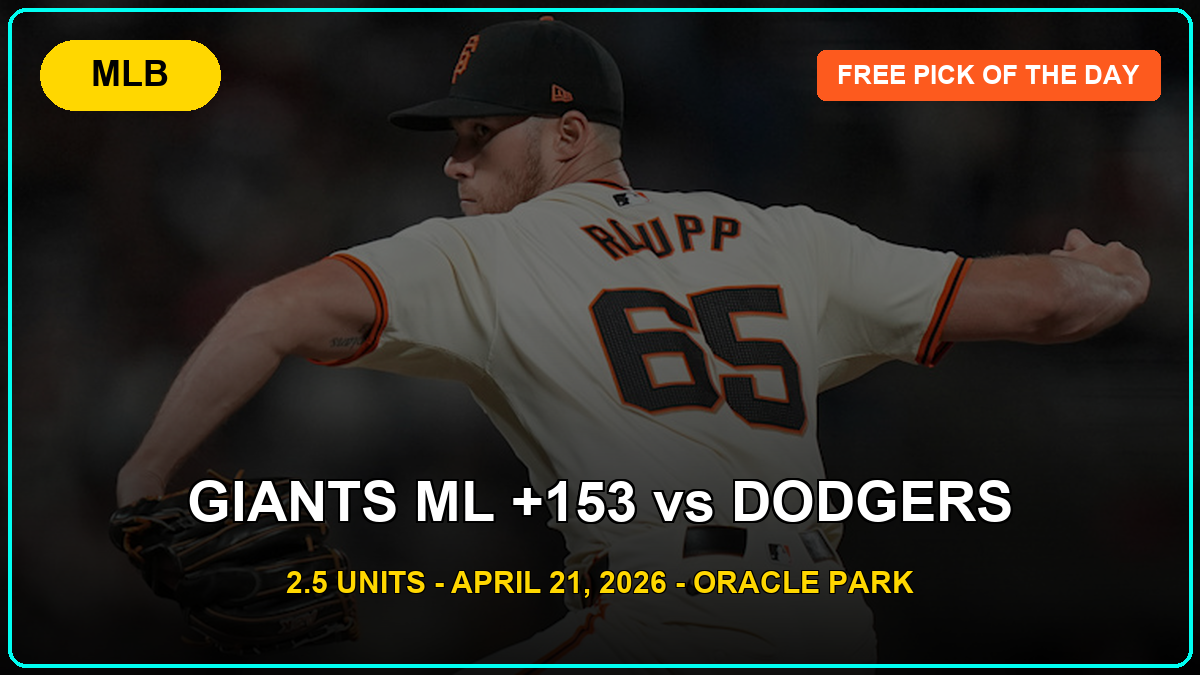
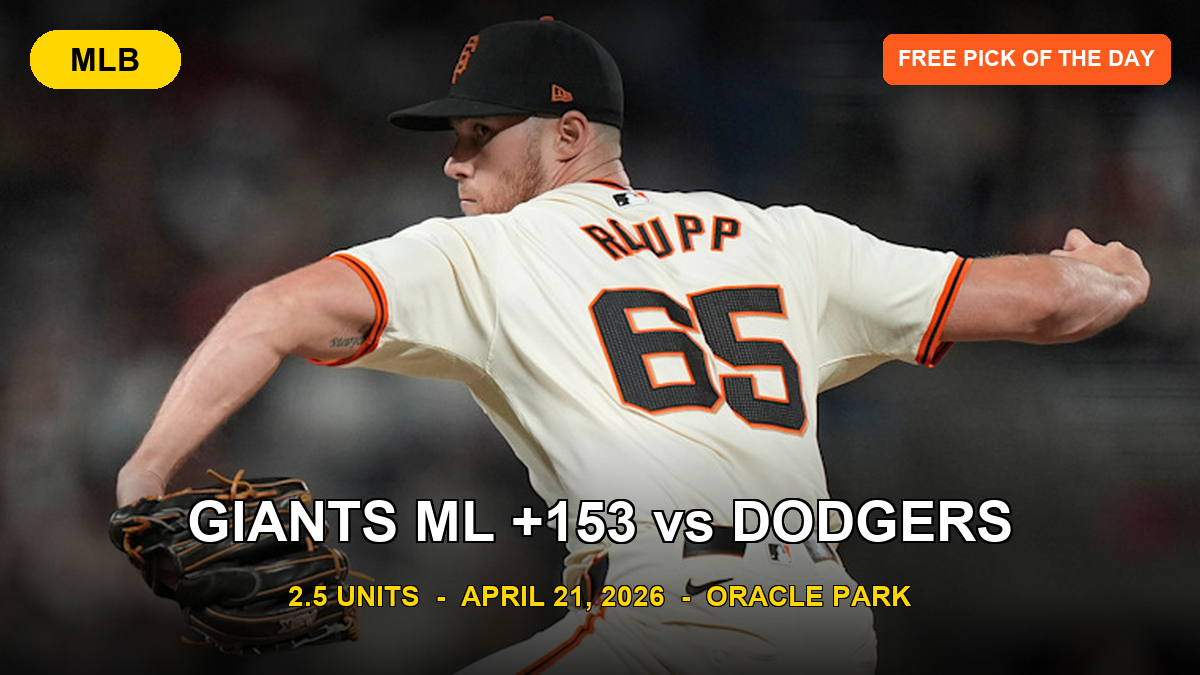
Self-host Roupp action photo + rebuild homepage thumbnail
- Hero now points at /images/landen-roupp-giants-pitcher-april-21-2026.jpg
  so it loads even if mlbstatic.com is blocked client-side.
- Homepage thumbnail PNG rebuilt with the actual Roupp action photo
  filling the card frame (replacing the dark generic graphic).

diff --git a/giants-moneyline-plus-153-roupp-dodgers-oracle-park-mlb.html b/giants-moneyline-plus-153-roupp-dodgers-oracle-park-mlb.html
@@ -10,13 +10,13 @@
 <meta property="og:description" content="San Francisco Giants moneyline +153 home dog play vs Los Angeles Dodgers. Landen Roupp (2.38 ERA) vs Yoshinobu Yamamoto (2.10 ERA). Free Pick of the Day, 2.5 units. Oracle Park series opener."/>
 <meta property="og:url" content="https://www.betlegendpicks.com/giants-moneyline-plus-153-roupp-dodgers-oracle-park-mlb.html"/>
 <meta property="og:type" content="article"/>
-<meta property="og:image" content="https://img.mlbstatic.com/mlb-photos/image/upload/w_1280,q_auto:best/v1/people/694738/action/hero/current"/>
+<meta property="og:image" content="https://www.betlegendpicks.com/images/landen-roupp-giants-pitcher-april-21-2026.jpg"/>
 <meta property="og:site_name" content="BetLegend Picks"/>
 <meta name="twitter:card" content="summary_large_image"/>
 <meta name="twitter:site" content="@BetLegend2025"/>
 <meta name="twitter:title" content="Giants ML +153 Free Pick of the Day vs Dodgers April 21 2026"/>
 <meta name="twitter:description" content="Giants +153 home dog vs Dodgers at Oracle Park. Roupp vs Yamamoto. 2.5 unit Free Pick of the Day. Full breakdown inside."/>
-<meta name="twitter:image" content="https://img.mlbstatic.com/mlb-photos/image/upload/w_1280,q_auto:best/v1/people/694738/action/hero/current"/>
+<meta name="twitter:image" content="https://www.betlegendpicks.com/images/landen-roupp-giants-pitcher-april-21-2026.jpg"/>
 <meta content="BetLegend Picks" name="author"/>
 <link rel="canonical" href="https://www.betlegendpicks.com/giants-moneyline-plus-153-roupp-dodgers-oracle-park-mlb.html"/>
 <link href="https://www.betlegendpicks.com/newlogo.png" rel="icon" type="image/png"/>
@@ -26,7 +26,7 @@
  "@type": "BlogPosting",
  "headline": "Giants Moneyline +153 Is the Free Pick of the Day: Home Dog Value vs the Dodgers Behind Roupp at Oracle Park",
  "description": "San Francisco Giants moneyline +153 free pick of the day vs Los Angeles Dodgers Tuesday April 21 2026. Landen Roupp (3-1, 2.38 ERA) draws Yoshinobu Yamamoto (2-1, 2.10 ERA) in the series opener at Oracle Park. Full home dog breakdown for a 2.5 unit play.",
- "image": "https://img.mlbstatic.com/mlb-photos/image/upload/w_1280,q_auto:best/v1/people/694738/action/hero/current",
+ "image": "https://www.betlegendpicks.com/images/landen-roupp-giants-pitcher-april-21-2026.jpg",
  "author": {"@type": "Person", "name": "BetLegend"},
  "publisher": {"@type": "Organization", "name": "BetLegend Picks", "logo": {"@type": "ImageObject", "url": "https://www.betlegendpicks.com/newlogo.png"}},
  "datePublished": "2026-04-20T23:55:00-04:00",
@@ -138,7 +138,7 @@ footer a:hover{text-shadow:0 0 10px var(--neon-cyan)}
 <p class="post-time">Posted: 11:55 PM ET, April 20, 2026 | First Pitch: Tuesday, April 21 - 9:45 PM ET</p>
 
 <figure style="text-align:center;margin:20px 0;">
-<img alt="Landen Roupp delivers a pitch for the San Francisco Giants in 2026" src="https://img.mlbstatic.com/mlb-photos/image/upload/w_1280,q_auto:best/v1/people/694738/action/hero/current" style="display:block; margin:0 auto; width:85%; max-width:900px; border-radius:10px;"/>
+<img alt="Landen Roupp delivers a pitch for the San Francisco Giants in 2026" src="https://www.betlegendpicks.com/images/landen-roupp-giants-pitcher-april-21-2026.jpg" style="display:block; margin:0 auto; width:85%; max-width:900px; border-radius:10px;"/>
 <figcaption style="color:#aaa;font-size:14px;margin-top:8px;">Landen Roupp takes the ball Tuesday night at Oracle Park as the Giants open a three-game NL West set with the Dodgers | Photo: MLB</figcaption>
 </figure>
 
